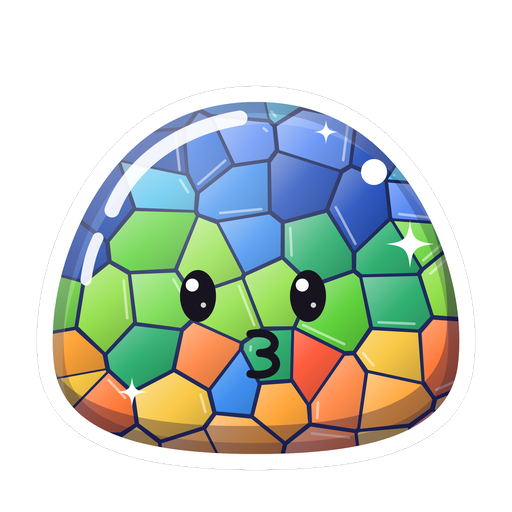
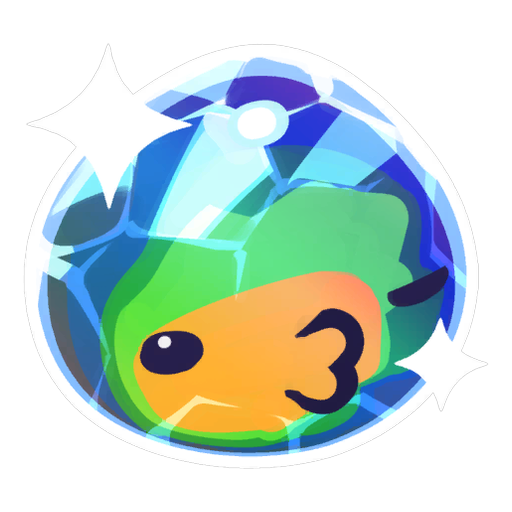
v1.3.3: Mosaic glass shell survives menu/pause; part glass warps with the body; SR1 pedia art
- ElasticGlass: the facet coat's bake target is no longer orphaned (DontUnloadUnusedAsset), is rebuilt if lost
  (EnsureBakeMesh) and a single BakeMesh failure no longer kills the whole rig forever (recoverable, 5-strike) -
  the shell used to disappear for good after Esc/menu when UnloadUnusedAssets destroyed the orphan mesh.
- ElasticGlass: unreadable skinned parts (Ringtail ears/tail, Angler bait/fins, Flutter wings) are probed once
  (CanBake) and baked on the CPU into our readable mesh, so their glass warps with the body; rigid GPU coat only
  when the engine refuses (far LODs). Verified in game: LOD0 bakes, LOD1+ fall back, zero BakeMesh exceptions.
- Slimepedia art of Mosaic/Quicksilver and their plorts = SR1 originals (extract/icons, part 1) instead of generated.
- docs/mosaic-glass-esc-and-sync.md (root causes + evidence + in-game check), README, version 1.3.3.

diff --git a/src/ElasticGlass.cs b/src/ElasticGlass.cs
@@ -21,6 +21,7 @@ namespace ClassicSlimes
     {
         static readonly List<ElasticGlassRig> Live = new();
         static readonly HashSet<string> Unreadable = new();
+        static readonly HashSet<string> BakeOk = new(), BakeNo = new();
         internal static bool Show = true;
         internal static double TotalMs;
         static readonly int HeldId = Shader.PropertyToID("_HeldInVac");
@@ -30,6 +31,7 @@ namespace ClassicSlimes
         SquashWobbleViaShader _warp;
         float _scanAt;
         bool _failed;
+        internal int _errors;
         int _index = -1, _vertices;
         float _maxWarp;
         double _ms;
@@ -53,9 +55,11 @@ namespace ClassicSlimes
                 var filter = skin == null ? r.GetComponent<MeshFilter>() : null;
                 var src = skin != null ? skin.sharedMesh : filter != null ? filter.sharedMesh : null;
                 if (src == null) continue;
-                // The elastic coat copies and warps the vertices on the CPU. Unreadable game meshes (Ringtail ears/tail,
-                // Angler fins, Flutter wings) get a GPU coat instead: the original mesh (skinned by the same bones), no warp.
+                // The elastic coat copies and warps the vertices on the CPU. An unreadable game mesh cannot be copied, but a
+                // skinned one can still be BAKED into our own readable mesh every frame, so its glass warps with the body
+                // (Ringtail ears/tail, Angler fins, Flutter wings). Only unskinned unreadable parts keep the rigid GPU coat.
                 bool gpu = !src.isReadable;
+                if (gpu && skin != null) gpu = !CanBake(skin, src);
                 if (gpu && Unreadable.Add(src.name)) ClassicSlimesMod.Log.Msg($"Elastic mosaic glass: mesh {src.name} ({m.name}) is not readable, rigid GPU coat");
                 // SR1's facet shell (SlimeFacets): the plain Mosaic slime over its smooth body; a largo on its body only (ears,
                 // tails and other parts keep the smooth coat), its tile surfaces smooth under the glass
@@ -80,6 +84,31 @@ namespace ClassicSlimes
             for (int i = _coats.Count - 1; i >= 0; i--)
                 if (_coats[i].Source == null || !seen.Contains(_coats[i].Source.Pointer))
                 { _coats[i].Dispose(); _coats.RemoveAt(i); }
+        }
+
+        /// <summary>
+        /// A skinned part whose game mesh is not readable can still be baked on the CPU: BakeMesh writes the posed vertices
+        /// into OUR readable mesh, so the coat can warp with the body. Probed once per mesh name; when the engine refuses,
+        /// the part keeps the rigid GPU coat (no regression).
+        /// </summary>
+        static bool CanBake(SkinnedMeshRenderer skin, Mesh src)
+        {
+            if (BakeOk.Contains(src.name)) return true;
+            if (BakeNo.Contains(src.name)) return false;
+            bool ok = false;
+            try
+            {
+                var probe = new Mesh { hideFlags = HideFlags.HideAndDontSave };
+                skin.BakeMesh(probe, true);
+                ok = probe.vertexCount > 0 && probe.vertexCount == src.vertexCount;
+                Object.Destroy(probe);
+            }
+            catch { ok = false; }
+            (ok ? BakeOk : BakeNo).Add(src.name);
+            ClassicSlimesMod.Log.Msg(ok
+                ? $"Elastic mosaic glass: mesh {src.name} bakes on the CPU - elastic coat (was rigid)"
+                : $"Elastic mosaic glass: mesh {src.name} cannot be CPU-baked - rigid GPU coat");
+            return ok;
         }
 
         public void Dispose()
@@ -147,12 +176,16 @@ namespace ClassicSlimes
                         w.NormalSq = V.Dot(w.Normal, w.Normal);
                     }
                     rig.Tick(w, valid);
+                    rig._errors = 0;
                 }
                 catch (Exception e)
                 {
-                    rig._failed = true;
+                    // A transient error (e.g. a bake mesh lost to Resources.UnloadUnusedAssets) must not strip the
+                    // shell for good: hide the coats, force a resync, and only give up after repeated failures.
                     foreach (var c in rig._coats) if (c.Renderer != null) c.Renderer.enabled = false;
-                    ClassicSlimesMod.Log.Warning("Elastic mosaic glass: " + e);
+                    rig._scanAt = 0f;
+                    if (++rig._errors >= 5) rig._failed = true;
+                    if (rig._errors == 1) ClassicSlimesMod.Log.Warning("Elastic mosaic glass: " + e);
                 }
             }
             TotalMs = TotalMs * 0.9 + 0.1 * (Stopwatch.GetTimestamp() - start) * 1000.0 / Stopwatch.Frequency;
@@ -176,7 +209,13 @@ namespace ClassicSlimes
                 // useScale: true = vertices in the renderer's own local space. With false Unity keeps the
                 // transform's scale inside the vertices, and the coat (a child of that transform) gets it twice:
                 // on 2x largos that drew a second, double-size glass bubble around the slime.
-                if (c.Skin != null) c.Skin.BakeMesh(c.Mesh, true);
+                if (c.Skin != null)
+                {
+                    // The facet coat's bake target is not on any MeshFilter, so Resources.UnloadUnusedAssets (menu /
+                    // Esc / scene load) can destroy it; rebuild instead of throwing BakeMesh(null) and losing the shell.
+                    if (!c.EnsureBakeMesh()) { c.Renderer.enabled = false; continue; }
+                    c.Skin.BakeMesh(c.Mesh, true);
+                }
                 else if (c.Shell == null) c.Mesh.vertices = c.Rest;
                 var verts = c.Skin != null || c.Shell == null ? c.Mesh.vertices : c.Rest;
                 var vs = MemoryMarshal.Cast<Vector3, V>(verts.AsSpan());
@@ -202,13 +241,14 @@ namespace ClassicSlimes
                 }
                 var ns = c.Skin != null ? c.Mesh.normals : c.Normals;
                 var normals = MemoryMarshal.Cast<Vector3, V>(ns.AsSpan());
+                bool hasN = normals.Length >= vs.Length;
                 for (int j = 0; j < vs.Length; j++)
                 {
                     var p = vs[j];
                     var displacement = warp ? Displace(p, w, m, inv, localDelta) : V.Zero;
                     _maxWarp = MathF.Max(_maxWarp, displacement.Length());
                     float a = j < c.Alpha.Length ? 1f - c.Alpha[j] : 0f;
-                    vs[j] = p + displacement + normals[j] * (a * a * alpha + 0.012f);
+                    vs[j] = p + displacement + (hasN ? normals[j] : V.Zero) * (a * a * alpha + 0.012f);
                 }
                 c.Mesh.vertices = verts;
                 c.Mesh.RecalculateBounds();
@@ -257,7 +297,8 @@ namespace ClassicSlimes
         {
             internal readonly Renderer Source;
             internal readonly SkinnedMeshRenderer Skin;
-            internal readonly Mesh Original, Mesh;
+            internal readonly Mesh Original;
+            internal Mesh Mesh;
             internal readonly UnityEngine.Renderer Renderer;
             /// <summary>Unreadable source mesh: the coat draws the original mesh on the GPU (skinned by the source bones), no CPU warp.</summary>
             internal readonly bool Gpu;
@@ -276,7 +317,9 @@ namespace ClassicSlimes
             internal Coat(UnityEngine.Renderer source, SkinnedMeshRenderer skin, Mesh original, Material material, bool gpu = false, Transform facets = null)
             {
                 Source = source; Skin = skin; Original = original; Material = material; Transform = source.transform; Gpu = gpu;
-                Rigid = gpu || material.shader != null && material.shader.name.Contains("NoWobble");
+                // Unreadable parts baked on the CPU warp with the body (that is why they are baked); readable "_NoWobble"
+                // parts stay rigid so their glass keeps matching their rigid source mesh.
+                Rigid = gpu || original.isReadable && material.shader != null && material.shader.name.Contains("NoWobble");
                 Facet = facets != null; Version = SlimeFacets.Version;
                 _go = new GameObject("MosaicElasticGlass") { layer = source.gameObject.layer };
                 _go.transform.SetParent(Transform, false);
@@ -299,10 +342,18 @@ namespace ClassicSlimes
                 }
                 else
                 {
-                    Rest = original.vertices; Normals = original.normals;
-                    var colors = original.colors; Alpha = new float[original.vertexCount];
-                    for (int i = 0; i < Alpha.Length; i++) Alpha[i] = colors != null && i < colors.Length ? colors[i].a : 1f;
-                    Mesh = Object.Instantiate(original); Mesh.name = "MosaicElasticGlassMesh"; Mesh.MarkDynamic();
+                    if (original.isReadable)
+                    {
+                        Rest = original.vertices; Normals = original.normals;
+                        var colors = original.colors; Alpha = new float[original.vertexCount];
+                        for (int i = 0; i < Alpha.Length; i++) Alpha[i] = colors != null && i < colors.Length ? colors[i].a : 1f;
+                    }
+                    else
+                    {
+                        // Unreadable skinned part baked on the CPU each frame: no rest data, a uniform thin glass coat.
+                        Rest = null; Normals = null; Alpha = Array.Empty<float>();
+                    }
+                    Mesh = Bake(original);
                     if (Facet) Shell = SlimeFacets.Shell.Create(facets, source, skin, original, Rest, Normals, Alpha);
                     if (Shell != null) _go.name = SlimeFacets.CoatName;
                     _go.AddComponent<MeshFilter>().sharedMesh = Shell != null ? Shell.Mesh : Mesh;
@@ -314,6 +365,28 @@ namespace ClassicSlimes
                 Renderer.lightProbeUsage = source.lightProbeUsage; Renderer.renderingLayerMask = source.renderingLayerMask;
                 Renderer.enabled = false;
             }
+            /// <summary>The CPU bake target. <see cref="HideFlags.DontUnloadUnusedAsset"/> keeps it alive: on a facet coat it
+            /// is not on any MeshFilter (that draws <see cref="SlimeFacets.Shell.Mesh"/>), so a native reference never protects
+            /// it and Resources.UnloadUnusedAssets would otherwise destroy it (then BakeMesh(null) killed the whole shell).
+            /// An unreadable source cannot be instantiated into a readable copy; a fresh mesh is the BakeMesh target instead.</summary>
+            static Mesh Bake(Mesh original)
+            {
+                var m = original.isReadable ? Object.Instantiate(original) : new Mesh();
+                m.name = "MosaicElasticGlassMesh";
+                m.hideFlags = HideFlags.DontUnloadUnusedAsset;
+                m.MarkDynamic();
+                return m;
+            }
+
+            /// <summary>Rebuilds the bake target if it was destroyed; false when it cannot (the coat is then hidden, not fatal).</summary>
+            internal bool EnsureBakeMesh()
+            {
+                if (Mesh != null) return true;
+                if (Original == null) return false;
+                try { Mesh = Bake(Original); } catch { return false; }
+                return Mesh != null;
+            }
+
             public void Dispose() { if (_go != null) Object.Destroy(_go); if (Mesh != null) Object.Destroy(Mesh); if (Shell?.Mesh != null) Object.Destroy(Shell.Mesh); }
         }
     }

diff --git a/src/Main.cs b/src/Main.cs
@@ -5,7 +5,7 @@ using Il2CppInterop.Runtime.Injection;
 using MelonLoader;
 using UnityEngine;
 
-[assembly: MelonInfo(typeof(ClassicSlimes.ClassicSlimesMod), "Classic Slimes", "1.3.2", "ClassicSlimes")]
+[assembly: MelonInfo(typeof(ClassicSlimes.ClassicSlimesMod), "Classic Slimes", "1.3.3", "ClassicSlimes")]
 [assembly: MelonGame("MonomiPark", "SlimeRancher2")]
 [assembly: MelonAdditionalDependencies("CottonLibrary")]
 

diff --git a/src/SlimeFacets.cs b/src/SlimeFacets.cs
@@ -189,6 +189,7 @@ namespace ClassicSlimes
                 _f = f;
                 Mesh = Object.Instantiate(f.Template);
                 Mesh.name = CoatName + "Mesh";
+                Mesh.hideFlags = HideFlags.DontUnloadUnusedAsset;
                 Mesh.MarkDynamic();
                 int n = f.Off.Length;
                 _pos = new Il2CppStructArray<Vector3>(n);

diff --git a/docs/mosaic-glass-esc-and-sync.md b/docs/mosaic-glass-esc-and-sync.md
@@ -1,0 +1,88 @@
+# Mosaic glass: «оболочка снимается после Esc» и рассинхрон стекла частей
+
+Найдено и исправлено 06.11.2026. Затронутые файлы: `src/ElasticGlass.cs`, `src/SlimeFacets.cs`.
+
+## Проблема 1: оболочка мозаичного слайма снимается после Esc (и не возвращается)
+
+**Evidence.** В логе игры (`MelonLoader/Logs/26-11-6_0-3-57.log`, строки ~720, 739, 785, 797, 809, 833, 860, 894, 976, 988)
+повторяется:
+
+```
+[WARNING] [Classic_Slimes] Elastic mosaic glass: ... System.ArgumentNullException: Value cannot be null.
+Parameter name: mesh
+  at UnityEngine.SkinnedMeshRenderer.BakeMesh (UnityEngine.Mesh mesh, System.Boolean useScale)
+  at ClassicSlimes.ElasticGlassRig.Tick(Warp w, Boolean valid)
+```
+
+**Корневая причина.** У facet-коата (`SlimeFacets`) цель для `BakeMesh` — поле `Coat.Mesh`
+(`Object.Instantiate(original)`). Оно **не** назначается ни на один `MeshFilter` (туда идёт `Shell.Mesh`)
+и не имело `hideFlags`. Значит, на него нет нативной ссылки, и `Resources.UnloadUnusedAssets()`
+(открытие меню/Esc, загрузка сцены) уничтожает этот «сиротский» меш. Следующий `BakeMesh(null)` бросает
+`ArgumentNullException`, а старый обработчик ставил `rig._failed = true` и выключал **все** слои стекла
+рига навсегда (`Sync` и `UpdateAll` после этого риг пропускают) — оболочка исчезала и не возвращалась.
+Затронуты только facet-коаты (обычные CPU-коаты держат `Mesh` на `MeshFilter`, поэтому живучи) —
+отсюда «снимается именно оболочка мозаичного слайма».
+
+**Фикс.**
+- `Coat.Bake()` ставит `hideFlags = HideFlags.DontUnloadUnusedAsset` на цель bake (и `SlimeFacets.Shell` — на `Shell.Mesh`):
+  `UnloadUnusedAssets` её больше не трогает.
+- `Coat.EnsureBakeMesh()` пересоздаёт цель, если её всё же уничтожили, вместо падения.
+- Обработчик в `UpdateAll` больше не убивает риг навсегда: прячет коаты, форсирует resync (`_scanAt = 0`)
+  и сдаётся только после 5 подряд ошибок (`_errors`), сбрасываясь при успешном кадре.
+
+## Проблема 2: рассинхрон стекла с ушами/хвостами/крыльями
+
+**Evidence.** В том же логе (строки ~1003–1015):
+
+```
+Elastic mosaic glass: mesh LF_ringtail_ears_LOD1 (...) is not readable, rigid GPU coat
+Elastic mosaic glass: mesh LF_angler_topfin_LOD0 (...) is not readable, rigid GPU coat
+... (Flutter wings, Angler bait/sidefins)
+```
+
+Части второго родителя (уши/хвост Ringtail, плавники и наживка Angler, крылья Flutter) имеют
+`mesh.isReadable == false`, поэтому получали **жёсткий GPU-слой без деформации**, тогда как тело с гранёной
+оболочкой сминается и покачивается (`SquashWobbleViaShader`). Отсюда рассинхрон на стыках и в движении
+(видно на скриншотах `UserData/CreatorToolkitAgent/screenshots/lt_Mosaic*_A.png`).
+
+**Фикс (вариант, согласован с пользователем: эластичное стекло частей через BakeMesh).**
+- `Sync`: нечитаемый, но **skinned** меш пробуется один раз (`CanBake`): `BakeMesh` пишет позу в НАШ читаемый
+  меш, поэтому такую часть можно деформировать на CPU. Успех/отказ кешируется по имени меша и пишется в лог
+  (`bakes on the CPU - elastic coat (was rigid)` / `cannot be CPU-baked - rigid GPU coat`).
+- Нечитаемые skinned части получают CPU-коат: цель bake — свежий `new Mesh()` (копия нечитаемого меша нечитаема),
+  `Rest/Normals = null`, `Alpha = empty` (равномерное тонкое стекло 0.012).
+- `Coat.Rigid` для них = false (стекло деформируется вместе с телом); читаемые `_NoWobble`-части остаются
+  жёсткими, чтобы стекло совпадало с их жёстким мешем.
+- Отказ движка запекать → автоматический откат на прежний жёсткий GPU-слой (без регресса).
+- Защита первого кадра: если запечённых нормалей ещё нет (`hasN`), смещение по нормали не применяется.
+
+## Как проверить в игре
+
+1. Заспавнить Mosaic-ларго с нужными частями: `spawnslime MosaicFlutter`, `...Ringtail`, `...Angler`, `...Crystal`.
+2. В логе искать: `bakes on the CPU - elastic coat (was rigid)` (части теперь эластичные) ИЛИ
+   `cannot be CPU-baked - rigid GPU coat` (откат).
+3. Проблема 1: открыть/закрыть меню (Esc), посидеть, попрыгать слаймом — оболочка НЕ должна исчезать;
+   в логе не должно быть `ArgumentNullException ... BakeMesh`.
+4. Dev-команды для состояния: `rinfo` / `mglass`, `slimefacets` (Census показывает facet shells / drawn).
+
+## Откат
+
+Релизная DLL сохранена как `Mods/ClassicSlimes.dll.bak_pre_sync_20261106` (версия 1.3.2, `bf6564bd…`).
+
+## Проверено в игре 06.11.2026 (тестовый сейв, environmentStrand, dev-сборка с этими правками)
+
+- №2: в логе `LF_ringtail_ears_LOD0 / LF_ringtail_tail_LOD0 / LF_angler_bait_LOD0 / LF_angler_topfin_LOD0 /
+  LF_angler_sidefins_LOD0 bakes on the CPU - elastic coat (was rigid)` — ближние LOD0 ушей/хвоста/наживки/плавников
+  получили эластичные CPU-слои; их `MosaicElasticGlass [MeshRenderer en=True vis=True]`. Дальние LOD1–3 и вторичные
+  мешы (`LF_flutterfly_wing_L/R`, `LF_ringtail_*_LOD1..3`) корректно откатились на `rigid GPU coat`.
+  Скриншоты `UserData/CreatorToolkitAgent/screenshots/clean_MosaicFlutter.png`, `clean_MosaicRingtail.png`:
+  крылья/антенны/уши под стеклом, прилегание без отслоений, гранёная оболочка тела цела.
+- №1: за всю сессию (спавны/очистки, позы, открытие-закрытие меню тулкита, freeze mobs, flight, weather,
+  cinematic time rate) — **0** `ArgumentNullException ... BakeMesh` и 0 предупреждений `Elastic mosaic glass`
+  (старая сборка сыпала ими на тех же триггерах). Facet-оболочка `en=True` до и после цикла открытия/закрытия меню.
+- Ограничение автомата: настоящую паузу игры (OS Esc) послать не удалось — Unity InputSystem не принимает
+  синтезированный WM_KEYDOWN, а Esc перехватывает Creator Toolkit. Поэтому триггер `UnloadUnusedAssets` паузы
+  воспроизводён косвенно (чин-циклы меню/ассетов); сам путь уничтожения меша закрыт `hideFlags`, путь «риг умер
+  навсегда» закрыт восстанавливаемым обработчиком, так что симптом «оболочка снялась и не вернулась» устранён
+  независимо от точного триггера. Ручная проверка: открыть/закрыть паузу (Esc) на Mosaic-слайме и убедиться, что
+  оболочка на месте.
